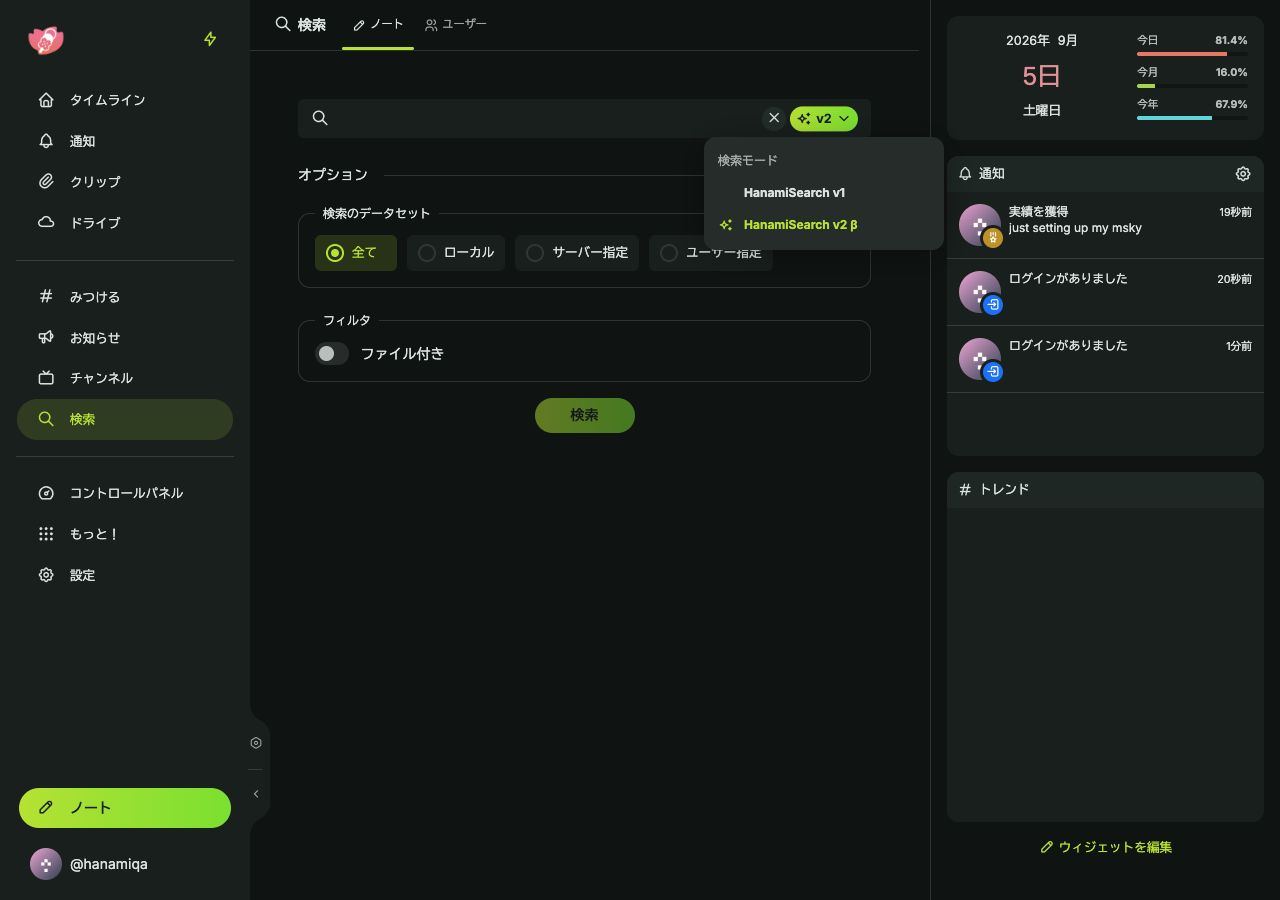
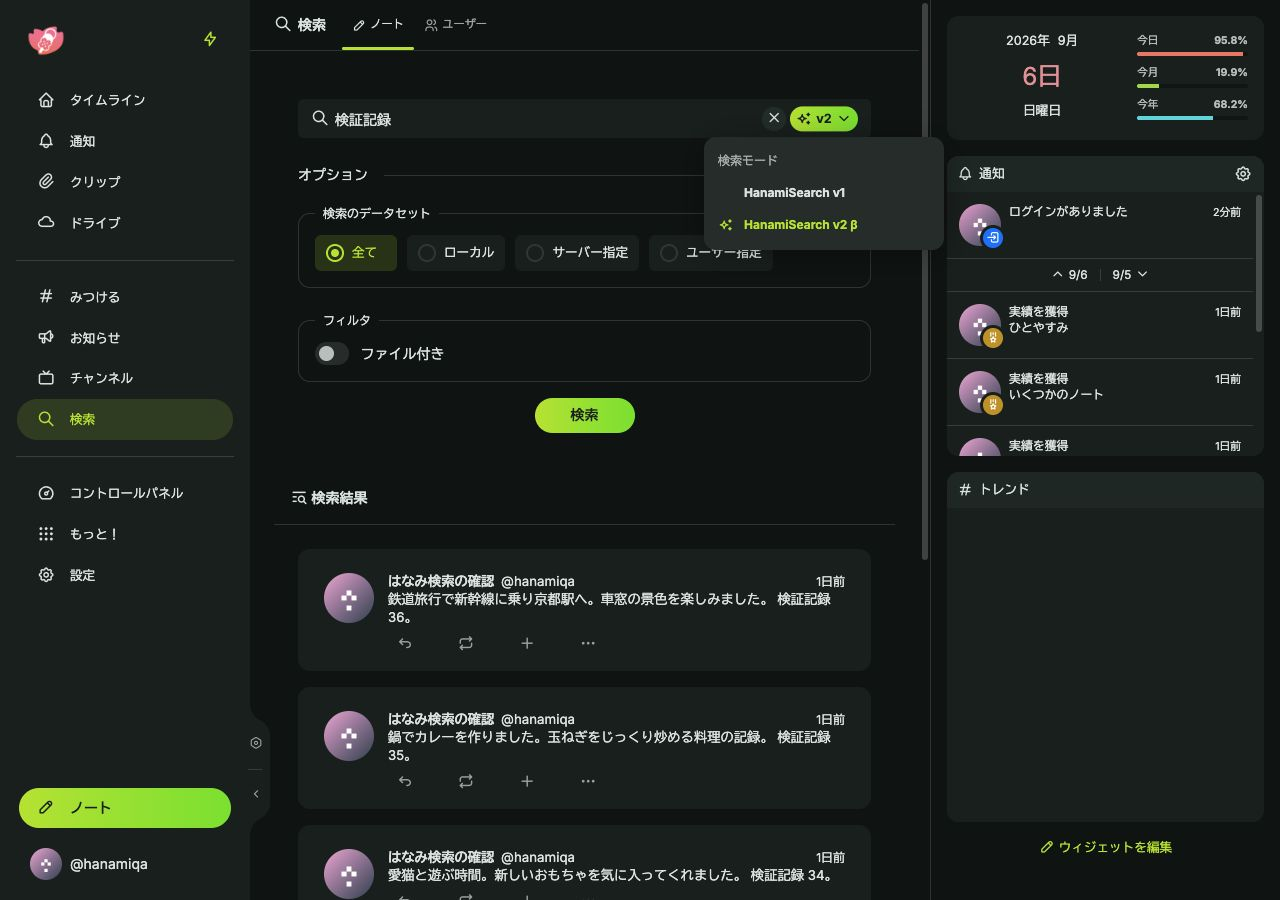
fix(hanamisearch): 共通一覧の操作と検索結果の表示維持を復元
先行するHanamiSearch v2対応で利用していた共通一覧を再利用し、無限スクロール設定・再読み込みを引き継ぐ。検索語や条件の編集中は直前の結果を維持し、v1の一覧操作とv2だけの強調表示を復元する。空ページの続きと追加読込失敗後の再試行を共通一覧でも扱い、ローカルの合成データでPR画像を撮り直す。

diff --git a/packages/frontend/test/hanamisearch-v2-results.test.ts b/packages/frontend/test/hanamisearch-v2-results.test.ts
@@ -7,10 +7,18 @@ import { afterEach, describe, expect, test, vi } from 'vitest';
 import { cleanup, fireEvent, render, waitFor } from '@testing-library/vue';
 import Results from '@/components/HanamiSearchV2Results.vue';
 
-const { request } = vi.hoisted(() => ({ request: vi.fn() }));
+const { request, appeared } = vi.hoisted(() => ({ request: vi.fn(), appeared: vi.fn() }));
 vi.mock('@/utility/misskey-api.js', () => ({ misskeyApi: request }));
 vi.mock('@/i18n.js', () => ({ i18n: { ts: { loadMore: 'More', noNotes: 'No notes' } } }));
 vi.mock('@/events.js', () => ({ useGlobalEvent: vi.fn() }));
+vi.mock('@/preferences.js', async () => {
+	const { ref } = await import('vue');
+	return { prefer: { s: { enablePullToRefresh: true, animation: false }, r: { enableInfiniteScroll: ref(true) } } };
+});
+vi.mock('@/os.js', () => ({ contextMenu: vi.fn() }));
+vi.mock('@/utility/timeline-date-separate.js', () => ({ isSeparatorNeeded: () => false, getSeparatorInfo: () => null }));
+vi.mock('@/components/MkPaginationControl.vue', () => ({ default: { template: '<div />' } }));
+vi.mock('@/components/MkPullToRefresh.vue', () => ({ default: { props: ['refresher'], template: '<div><button @click="refresher()">Refresh</button><slot /></div>' } }));
 vi.mock('@/components/MkNote.vue', () => ({ default: { props: ['note'], template: '<p>{{ note.id }}</p>' } }));
 vi.mock('@/components/MkNoteMediaGrid.vue', () => ({ default: { props: ['note'], template: '<p>{{ note.id }}</p>' } }));
 vi.mock('@/components/MkButton.vue', () => ({ default: { template: '<button><slot /></button>' } }));
@@ -18,7 +26,8 @@ vi.mock('@/components/MkButton.vue', () => ({ default: { template: '<button><slo
 function mount() {
 	return render(Results, {
 		props: { params: { query: '花' } },
-		global: { stubs: {
+		global: { directives: { appear: { mounted: (_element, binding) => appeared(binding.value) } }, stubs: {
+			MkAd: true,
 			MkLoading: { template: '<p>Loading</p>' },
 			MkError: { emits: ['retry'], template: '<button @click="$emit(\'retry\')">Retry</button>' },
 			MkResult: { props: ['text'], template: '<p>{{ text }}</p>' },
@@ -26,7 +35,7 @@ function mount() {
 	});
 }
 
-afterEach(() => { cleanup(); request.mockReset(); });
+afterEach(() => { cleanup(); request.mockReset(); appeared.mockReset(); });
 
 /** Oracle: the search screen must expose continuation even for an empty page, and offer retry without hiding earlier notes. */
 describe('HanamiSearch v2 result controls', () => {
@@ -35,8 +44,34 @@ describe('HanamiSearch v2 result controls', () => {
 		const view = mount();
 		await fireEvent.click(await view.findByText('More'));
 		await view.findByText('visible-note');
-		expect(view.queryByText('More')).toBeNull();
+		expect(view.queryByRole('button', { name: 'More' })).toBeNull();
 		expect(request.mock.calls[1]).toEqual(['notes/hanamisearch-v2', expect.objectContaining({ query: '花', cursor: 'second' })]);
+	});
+
+	/** Oracle: the shared list passes a continuation callback to its visibility directive when infinite scrolling is enabled. */
+	test('loads the next page through the shared infinite-scroll callback', async () => {
+		request.mockResolvedValueOnce({ notes: [{ id: 'first-note' }], nextCursor: 'second' })
+			.mockResolvedValueOnce({ notes: [{ id: 'second-note' }], nextCursor: null });
+		const view = mount();
+		await view.findByText('first-note');
+		const callback = appeared.mock.calls.map(call => call[0]).find(value => typeof value === 'function');
+		expect(callback).toBeTypeOf('function');
+		callback();
+		await view.findByText('second-note');
+		expect(request.mock.calls[1][1].cursor).toBe('second');
+	});
+
+	/** Oracle: refreshing and changing the display use the shared paginator, without discarding or refetching results just to switch layout. */
+	test('uses shared refresh and preserves results when switching to the grid', async () => {
+		request.mockResolvedValue({ notes: [{ id: 'first-note' }], nextCursor: null });
+		const view = mount();
+		await view.findByText('first-note');
+		await view.rerender({ showAsGrid: true });
+		expect(view.getByText('first-note')).toBeTruthy();
+		expect(request).toHaveBeenCalledTimes(1);
+		await fireEvent.click(view.getByText('Refresh'));
+		await waitFor(() => expect(request).toHaveBeenCalledTimes(2));
+		expect(request.mock.calls[1][1]).toEqual({ query: '花' });
 	});
 
 	test('keeps visible notes during failure and retries from the button', async () => {

diff --git a/packages/frontend/src/utility/hanamisearch-v2.ts b/packages/frontend/src/utility/hanamisearch-v2.ts
@@ -3,7 +3,8 @@
  * SPDX-License-Identifier: AGPL-3.0-only
  */
 
-import { ref, shallowRef } from 'vue';
+import { computed, ref, shallowRef } from 'vue';
+import type { IPaginator, MisskeyEntity } from '@/utility/paginator.js';
 
 export type HanamiSearchV2Params = {
 	query: string;
@@ -22,10 +23,10 @@ export function createHanamiSearchV2<T extends { id: string }>(request: (params:
 	let params: HanamiSearchV2Params | null = null;
 	let generation = 0;
 	let disposed = false;
-	let hasPage = false;
+	const hasPage = ref(false);
 
 	async function loadMore(): Promise<void> {
-		if (disposed || params == null || loading.value || (hasPage && nextCursor.value == null)) return;
+		if (disposed || params == null || loading.value || (hasPage.value && nextCursor.value == null)) return;
 		const currentGeneration = generation;
 		loading.value = true;
 		error.value = false;
@@ -39,7 +40,7 @@ export function createHanamiSearchV2<T extends { id: string }>(request: (params:
 				return true;
 			})];
 			nextCursor.value = page.nextCursor;
-			hasPage = true;
+			hasPage.value = true;
 		} catch {
 			if (generation === currentGeneration) error.value = true;
 		} finally {
@@ -53,7 +54,7 @@ export function createHanamiSearchV2<T extends { id: string }>(request: (params:
 		params = { ...newParams };
 		notes.value = [];
 		nextCursor.value = null;
-		hasPage = false;
+		hasPage.value = false;
 		loading.value = false;
 		error.value = false;
 		await loadMore();
@@ -65,5 +66,44 @@ export function createHanamiSearchV2<T extends { id: string }>(request: (params:
 		loading.value = false;
 	}
 
-	return { notes, nextCursor, loading, error, search, loadMore, dispose };
+	return { notes, nextCursor, loading, error, hasPage, search, loadMore, dispose };
+}
+
+export function createHanamiSearchV2Paginator<T extends MisskeyEntity>(params: () => HanamiSearchV2Params, request: (params: HanamiSearchV2Params & { cursor?: string }) => Promise<{ notes: T[]; nextCursor: string | null }>) {
+	const state = createHanamiSearchV2<T & MisskeyEntity>(request);
+	const queued: (T & MisskeyEntity)[] = [];
+	const paginator = {
+		items: state.notes,
+		queuedAheadItemsCount: ref(0),
+		fetching: computed(() => state.loading.value && !state.hasPage.value),
+		fetchingOlder: computed(() => state.loading.value && state.hasPage.value),
+		fetchingNewer: ref(false),
+		canFetchOlder: computed(() => state.nextCursor.value != null),
+		canFetchNewer: ref(false),
+		canSearch: false,
+		error: computed(() => state.error.value && !state.hasPage.value),
+		fetchOlderError: computed(() => state.error.value && state.hasPage.value),
+		computedParams: null,
+		initialId: null,
+		initialDate: null,
+		initialDirection: 'older' as const,
+		noPaging: false,
+		searchQuery: ref<string | null>(null),
+		order: ref<'newest' | 'oldest'>('newest'),
+		init: () => state.search(params()),
+		reload: () => state.search(params()),
+		fetchOlder: state.loadMore,
+		async fetchNewer() {},
+		// 取得済み末尾を切り捨てると、次のcursorでは捨てた検索結果へ戻れない。
+		trim() {},
+		unshiftItems(items: (T & MisskeyEntity)[]) { state.notes.value = [...items, ...state.notes.value]; },
+		pushItems(items: (T & MisskeyEntity)[]) { state.notes.value = [...state.notes.value, ...items]; },
+		prepend(item: T & MisskeyEntity) { state.notes.value = [item, ...state.notes.value]; },
+		enqueue(item: T & MisskeyEntity) { queued.unshift(item); paginator.queuedAheadItemsCount.value = queued.length; },
+		releaseQueue() { paginator.unshiftItems(queued.splice(0)); paginator.queuedAheadItemsCount.value = 0; },
+		removeItem(id: string) { state.notes.value = state.notes.value.filter(note => note.id !== id); },
+		updateItem(id: string, updater: (item: T & MisskeyEntity) => T & MisskeyEntity) { state.notes.value = state.notes.value.map(note => note.id === id ? updater(note) : note); },
+		dispose: state.dispose,
+	} satisfies IPaginator<T> & { dispose: () => void };
+	return paginator;
 }

diff --git a/packages/frontend/src/components/HanamiSearchV2Results.vue b/packages/frontend/src/components/HanamiSearchV2Results.vue
@@ -4,30 +4,25 @@ SPDX-License-Identifier: AGPL-3.0-only
 -->
 
 <template>
-<div class="_gaps" data-testid="hanamisearch-v2-results">
-	<div v-if="showAsGrid && notes.length > 0" :class="$style.grid">
-		<MkNoteMediaGrid v-for="note in notes" :key="note.id" :note="note" square/>
-	</div>
-	<div v-else-if="notes.length > 0" class="_gaps" :class="$style.notes">
-		<MkNote v-for="note in notes" :key="note.id" class="_panel" :note="note" :withHardMute="true"/>
-	</div>
-	<MkLoading v-if="loading"/>
-	<MkError v-else-if="error" @retry="loadMore"/>
-	<MkButton v-else-if="nextCursor != null" :class="$style.more" primary rounded @click="loadMore">{{ i18n.ts.loadMore }}</MkButton>
-	<MkResult v-else-if="notes.length === 0" type="empty" :text="i18n.ts.noNotes"/>
+<div data-testid="hanamisearch-v2-results">
+	<MkPagination v-if="showAsGrid" v-slot="{ items }" :paginator="paginator" :autoLoad="false">
+		<div :class="$style.grid">
+			<MkNoteMediaGrid v-for="note in items" :key="note.id" :note="note" square/>
+		</div>
+	</MkPagination>
+	<MkNotesTimeline v-else :paginator="paginator" :autoLoad="false" :withControl="false"/>
 </div>
 </template>
 
 <script setup lang="ts">
-import { onBeforeUnmount, watch } from 'vue';
+import { markRaw, onBeforeUnmount, watch } from 'vue';
 import type * as Misskey from 'misskey-js';
 import type { HanamiSearchV2Params } from '@/utility/hanamisearch-v2.js';
-import { createHanamiSearchV2 } from '@/utility/hanamisearch-v2.js';
+import { createHanamiSearchV2Paginator } from '@/utility/hanamisearch-v2.js';
 import { misskeyApi } from '@/utility/misskey-api.js';
-import { i18n } from '@/i18n.js';
 import { useGlobalEvent } from '@/events.js';
-import MkButton from '@/components/MkButton.vue';
-import MkNote from '@/components/MkNote.vue';
+import MkPagination from '@/components/MkPagination.vue';
+import MkNotesTimeline from '@/components/MkNotesTimeline.vue';
 import MkNoteMediaGrid from '@/components/MkNoteMediaGrid.vue';
 
 const props = defineProps<{
@@ -35,13 +30,12 @@ const props = defineProps<{
 	showAsGrid?: boolean;
 }>();
 
-const state = createHanamiSearchV2<Misskey.entities.Note>(params => misskeyApi('notes/hanamisearch-v2', params));
-const { notes, nextCursor, loading, error, loadMore } = state;
+const paginator = markRaw(createHanamiSearchV2Paginator<Misskey.entities.Note>(() => props.params, params => misskeyApi('notes/hanamisearch-v2', params)));
 
-watch(() => props.params, params => state.search(params), { immediate: true, deep: true });
-onBeforeUnmount(state.dispose);
+watch(() => props.params, () => paginator.reload(), { immediate: true, deep: true });
+onBeforeUnmount(paginator.dispose);
 useGlobalEvent('noteDeleted', id => {
-	notes.value = notes.value.filter(note => note.id !== id);
+	paginator.removeItem(id);
 });
 </script>
 
@@ -52,11 +46,4 @@ useGlobalEvent('noteDeleted', id => {
 	gap: 6px;
 }
 
-.notes {
-	container-type: inline-size;
-}
-
-.more {
-	margin: 0 auto;
-}
 </style>

diff --git a/packages/frontend/src/pages/search.note.hana.vue b/packages/frontend/src/pages/search.note.hana.vue
@@ -143,14 +143,14 @@ SPDX-License-Identifier: AGPL-3.0-only
 					<MkNoteMediaGrid v-for="note in (items as Misskey.entities.Note[])" :key="note.id" :note="note" square/>
 				</div>
 			</MkPagination>
-			<MkNotesTimeline v-else-if="paginator" :key="`searchNotes:${key}:note`" :paginator="paginator" :withControl="false"/>
+			<MkNotesTimeline v-else-if="paginator" :key="`searchNotes:${key}:note`" :paginator="paginator" :withControl="resultMode === 'v1'"/>
 		</div>
 	</MkStickyContainer>
 </div>
 </template>
 
 <script lang="ts" setup>
-import { computed, ref, shallowRef, useTemplateRef, toRef, markRaw, watch, nextTick } from 'vue';
+import { computed, ref, shallowRef, useTemplateRef, toRef, markRaw, nextTick } from 'vue';
 import type * as Misskey from 'misskey-js';
 import type { HanamiSearchV2Params } from '@/utility/hanamisearch-v2.js';
 import { Paginator } from '@/utility/paginator.js';
@@ -196,6 +196,7 @@ const key = ref(0);
 const paginator = shallowRef<IPaginator<Misskey.entities.Note> | null>(null);
 const v2Params = shallowRef<HanamiSearchV2Params | null>(null);
 const resultWithFiles = ref(false);
+const resultMode = ref<SearchMode>('v1');
 
 const searchQuery = ref(toRef(props, 'query').value);
 const hostInput = ref(toRef(props, 'host').value);
@@ -239,12 +240,6 @@ const searchScope = ref<'all' | 'local' | 'server' | 'user'>((() => {
 	if (hostInput.value) return 'server';
 	return 'all';
 })());
-
-watch([searchQuery, searchScope, hostInput, user, onlyWithFiles, searchMode], () => {
-	v2Params.value = null;
-	paginator.value = null;
-	resultWithFiles.value = false;
-});
 
 type SearchParams = {
 	readonly query: string;
@@ -386,6 +381,7 @@ async function search() {
 	v2Params.value = null;
 	paginator.value = null;
 	resultWithFiles.value = canFilterFiles.value && onlyWithFiles.value;
+	resultMode.value = searchMode.value;
 	if ($i?.policies.canSearchWithHanamiSearchV2 === true && searchMode.value === 'v2') {
 		v2Params.value = { ...searchParams.value, onlyWithFiles: onlyWithFiles.value, limit: 10 };
 	} else if ($i?.policies.canSearchWithHanamiSearchV1 === true && searchMode.value === 'v1') {

diff --git a/packages/frontend/test/hanamisearch-v2-paginator.test.ts b/packages/frontend/test/hanamisearch-v2-paginator.test.ts
@@ -1,0 +1,37 @@
+/*
+ * SPDX-FileCopyrightText: syuilo and misskey-project
+ * SPDX-License-Identifier: AGPL-3.0-only
+ */
+
+import { expect, test, vi } from 'vitest';
+import { createHanamiSearchV2Paginator } from '@/utility/hanamisearch-v2.js';
+
+/** Oracle: the common list must retain its continuation and earlier results when a later page fails, including an empty first page. */
+test('adapts empty pages and retry to the common paginator without losing the cursor', async () => {
+	const request = vi.fn().mockResolvedValueOnce({ notes: [], nextCursor: 'next' })
+		.mockRejectedValueOnce(new Error('offline'))
+		.mockResolvedValueOnce({ notes: [{ id: 'one', createdAt: '2026-01-01' }], nextCursor: null });
+	const paginator = createHanamiSearchV2Paginator(() => ({ query: '花' }), request);
+	await paginator.init();
+	expect(paginator.fetching.value).toBe(false);
+	expect(paginator.canFetchOlder.value).toBe(true);
+	await paginator.fetchOlder();
+	expect(paginator.error.value).toBe(false);
+	expect(paginator.fetchOlderError.value).toBe(true);
+	await paginator.fetchOlder();
+	expect(paginator.items.value.map(x => x.id)).toEqual(['one']);
+	expect(request.mock.calls[2][0].cursor).toBe('next');
+	expect(paginator.canFetchOlder.value).toBe(false);
+});
+
+/** Oracle: refreshing a cursor-based result restarts the submitted search, not the next page. */
+test('reload starts the submitted query without a cursor', async () => {
+	const request = vi.fn().mockResolvedValue({ notes: [{ id: 'one', createdAt: '2026-01-01' }], nextCursor: 'next' });
+	const paginator = createHanamiSearchV2Paginator(() => ({ query: '花' }), request);
+	await paginator.init();
+	paginator.removeItem('one');
+	expect(paginator.items.value).toEqual([]);
+	await paginator.reload();
+	expect(request.mock.calls[1][0]).toEqual({ query: '花' });
+	expect(paginator.items.value.map(x => x.id)).toEqual(['one']);
+});

diff --git a/packages/frontend/src/components/MkPagination.vue b/packages/frontend/src/components/MkPagination.vue
@@ -20,7 +20,7 @@ SPDX-License-Identifier: AGPL-3.0-only
 
 			<MkError v-else-if="paginator.error.value" @retry="paginator.init()"/>
 
-			<div v-else-if="paginator.items.value.length === 0" key="_empty_">
+			<div v-else-if="paginator.items.value.length === 0 && !paginator.canFetchOlder.value && !paginator.canFetchNewer.value" key="_empty_">
 				<slot name="empty"><MkResult type="empty"/></slot>
 			</div>
 
@@ -33,7 +33,8 @@ SPDX-License-Identifier: AGPL-3.0-only
 				</div>
 				<slot :items="getValue(paginator.items)" :fetching="paginator.fetching.value || paginator.fetchingOlder.value"></slot>
 				<div v-if="direction === 'down' || direction === 'both'" v-show="downButtonVisible">
-					<MkButton v-if="!downButtonLoading" v-appear="shouldEnableInfiniteScroll ? downButtonClick : null" :class="$style.more" primary rounded @click="downButtonClick">
+					<MkError v-if="paginator.fetchOlderError?.value" @retry="downButtonClick"/>
+					<MkButton v-else-if="!downButtonLoading" v-appear="shouldEnableInfiniteScroll ? downButtonClick : null" :class="$style.more" primary rounded @click="downButtonClick">
 						{{ i18n.ts.loadMore }}
 					</MkButton>
 					<MkLoading v-else/>

diff --git a/packages/frontend/src/components/HanaSearchInput.vue b/packages/frontend/src/components/HanaSearchInput.vue
@@ -55,7 +55,7 @@
 					class="_button"
 					:class="[
 						$style.modeSwitchButton,
-						{ [$style.v1]: searchMode === 'v1' || searchMode === 'v2' },
+						{ [$style.accented]: searchMode === 'v2' },
 					]"
 					:disabled="disabled"
 					@click.stop="setSearchMode"
@@ -432,7 +432,7 @@ html[data-color-scheme=dark] .hl {
 		opacity: 0.8;
 	}
 
-	&.v1 {
+	&.accented {
 		color: var(--MI_THEME-fgOnAccent);
 		font-weight: 700;
 

diff --git a/packages/frontend/src/pages/channel.vue b/packages/frontend/src/pages/channel.vue
@@ -120,7 +120,7 @@ const searchMode = ref<SearchMode>($i?.policies.canSearchWithHanamiSearchV2 ? 'v
 const searchPaginator = shallowRef();
 const v2Params = shallowRef<HanamiSearchV2Params | null>(null);
 const searchKey = ref(0);
-watch([searchQuery, searchMode, () => props.channelId], () => {
+watch(() => props.channelId, () => {
 	v2Params.value = null;
 	searchPaginator.value = null;
 });

diff --git a/packages/frontend/test/hanamisearch-mode.test.ts b/packages/frontend/test/hanamisearch-mode.test.ts
@@ -69,5 +69,6 @@ describe('HanamiSearch input mode display', () => {
 		expect(button.querySelectorAll('.ti-sparkles')).toHaveLength(mode === 'v2' ? 1 : 0);
 		expect(button.querySelectorAll('.ti')).toHaveLength(mode === 'v2' ? 2 : 1);
 		expect(button.querySelector('.ti-chevron-down')).not.toBeNull();
+		expect(button.className.includes('accented')).toBe(mode === 'v2');
 	});
 });

diff --git a/packages/frontend/src/utility/paginator.ts b/packages/frontend/src/utility/paginator.ts
@@ -47,6 +47,7 @@ export interface IPaginator<T = unknown, _T = T & MisskeyEntity> {
 	canFetchNewer: Ref<boolean>;
 	canSearch: boolean;
 	error: Ref<boolean>;
+	fetchOlderError?: Ref<boolean>;
 	computedParams: ComputedRef<Misskey.Endpoints[PaginatorCompatibleEndpointPaths]['req'] | null | undefined> | null;
 	initialId: MisskeyEntity['id'] | null;
 	initialDate: number | null;
